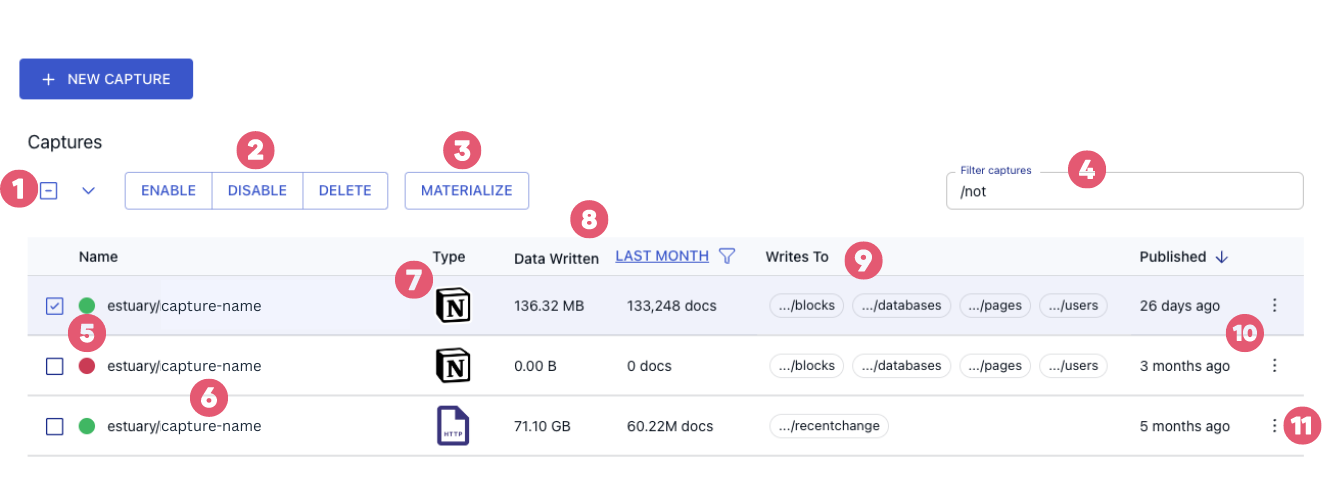
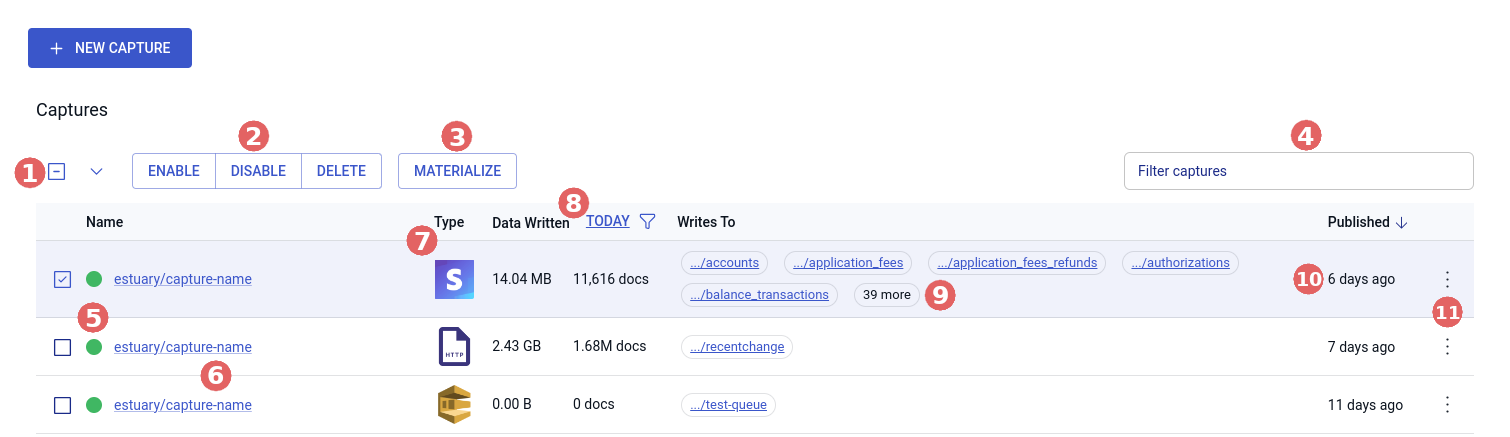
docs: update the web app section to match current UI/UX a bit better (#1165)
* updating the capture related section of the Web App docs

* Updating the images

* Updating collection section
Adding spot for annotated screenshot of details pages

* Moving details into their own section to follow pattern of how the list
pages display

* Adding details page images

* Updating what can be done in the app
Updating the new left nav names

* Updating images and adding collections page details for new table image

* Moving details page images into sub headings

* New Details overview and spec images

* Adding annotations for the details page

* Updating message about filtering the collection
Updating the name portion of details
Adding the stats title
Adding annotations to collection spec

* typo

diff --git a/site/docs/concepts/web-app.md b/site/docs/concepts/web-app.md
@@ -17,18 +17,21 @@ With the Flow web app, you can perform most common workflows, including:
 
 * Creating end-to-end Data Flows: **capturing** data from source systems and **materializing** it to destinations.
 * Creating, viewing, and editing individual captures and materializations.
+* Monitor the amount of data being processed by the system.
 * Viewing data **collections**.
 * Viewing users and permissions.
+* Granting permissions to other users.
 * Authenticating with the flowctl CLI.
+* Manage billing details.
 
-Some advanced workflows, like granting or revoking permissions and transforming data with **derivations**, aren't available in the web app.
+Some advanced workflows, like transforming data with **derivations**, aren't fully available in the web app.
 
 Even if you prefer the command line or plan to perform a task that's only available through flowctl, we recommend you begin your work in the web app;
 it provides a quicker and easier path to create captures and materializations. You can then switch to flowctl to continue working.
 
 ## Signing in
 
-You use either a Google or GitHub account to sign into Flow.
+You use a Google, Microsoft, or GitHub account to sign into Flow.
 
 ![](<./webapp-images/login-screen.png>)
 
@@ -38,7 +41,7 @@ If you've never used Flow before, you'll be prompted to register before being is
 ## Navigating the web app
 
 When you log into the web app, you land on the **Welcome** page.
-There are four additional pages visible as tabs in the side navigation: **Captures**, **Collections**, **Materializations**, and **Admin**.
+There are four additional pages visible as tabs in the side navigation: **Sources (captures)**, **Collections**, **Destinations (materializations)**, and **Admin**.
 
 The order of the tabs mirrors the order of a basic Data Flow:
 
@@ -84,7 +87,7 @@ you can find it by filtering for `acmeCo*source-postgres`.
 * **Disabled (Hollow circle)**: The capture is disabled.
 * **Unknown (Black when app is in light mode; white when app is in dark mode)**: The web app is unable to determine shard status. Usually, this is due to a temporary connection error.
 
-**6:** Capture name. The full name is shown, including all [prefixes](./catalogs.md#namespace).
+**6:** Capture name. The full name is shown, including all [prefixes](./catalogs.md#namespace). It is also a link to the [details page](#capture-details-page) of the capture.
 
 **7:** Capture type. The icon shows the type of source system data is captured from.
 
@@ -93,24 +96,11 @@ that the capture has written to its associated collections within a configurable
 Click the time interval in the header to select from **Today**, **Yesterday**, **This Week**, **Last Week**, **This Month**, or **Last Month**.
 Note that the time intervals are in UTC.
 
-**9:** Associated collections. The **Writes to** column shows all the collections to which the capture writes data. For captures with a large number of collections, hover over this column and scroll to view the full list.
+**9:** Associated collections. The **Writes to** column shows all the collections to which the capture writes data. For captures with a large number of collections, there is a chip stating how many collections are hidden. Clicking on this will all you to hover over this column and scroll to view the full list. These are also links to the details page of the collection.
 
-**10:** Publish time. Hover over this value to see the exact UTC time the capture was first published.
+**10:** Publish time. Hover over this value to see the exact UTC time the capture was last published.
 
-**11:** Options. Choose to **View Details** or **Edit Specification**.
-
-### Detail view
-
-When you click **View Details** for a capture, the **Status** and **Specification** viewers are revealed.
-
-The **Status** section shows the full identifier of the shard(s) that back your capture. If there's an error, you'll see an alert identifying the failing shard(s). Use the drop-down to open an expanded view of the failed shard's logs.
-
-In the **Specification** section, you can view the specification of the capture itself, as well as each collection to which it writes.
-Select a specification from the **Files** list to view the JSON.
-
-:::tip
-To change the size of each side of the **Specification** section, click and drag the center divider.
-:::
+**11:** Options. Click to open the menu to **Edit Specification**.
 
 ### Editing captures and collections
 
@@ -136,15 +126,21 @@ You can proceed to the materialization, or opt to exit to a different page of th
 ## Collections page
 
 The **Collections** page shows a read-only table of [collections](./collections.md) to which you have access.
-The table has many of the same features as the **Captures** table, with several important distinctions
+The table has nearly all of the same features as the **Captures** table, with several important distinctions
 that are called out in the image below.
 
 You can use the table to view each collection's specification and see a sample of its data.
-This can help you verify that collection data was captured as expected and that you'll be able to materialize it how you want, and troubleshoot it necessary.
+This can help you verify that collection data was captured as expected and that you'll be able to materialize it how you want, and troubleshoot if necessary.
 
 ![](<./webapp-images/collections-page.png>)
 
-**1:** Status indicator. If the collection does not contain a [derivation](./README.md#derivations), the indicator should always show green, and hover text will say "Collection."
+**1:** Select all or deselect all.
+
+**2:** Enable, Disable, and Delete buttons. These actions will be applied to the selected table rows. Choose **Disable** to temporarily pause the flow of data, **Enable** to resume, and **Delete** to permanently remove the collection(s).
+
+**3:** Filter collections by name. Type a catalog prefix, unique collection name to return collections that match your query.
+
+**4:** Status indicator. If the collection does not contain a [derivation](./README.md#derivations), the indicator should always show green, and hover text will say "Collection."
 In the event that the server cannot be reached, the indicator will show "Unknown" status (black in light mode and white in dark mode).
 
   If the collection contains a derivation, the status of the derivation's primary task [shard](./advanced/shards.md) will be indicated:
@@ -155,18 +151,14 @@ In the event that the server cannot be reached, the indicator will show "Unknown
   * **Disabled (Hollow circle)**: The derivation is disabled.
   * **Unknown (Black when app is in light mode; white when app is in dark mode)**: The web app is unable to determine shard status. Usually, this is due to a temporary connection error.
 
-**2:** Collection [statistics](./advanced/logs-stats.md#statistics). The **Data Written** column shows the total amount of data, in bytes and in [documents](./collections.md#documents),
+**5:** Collection name. The full name is shown, including all [prefixes](./catalogs.md#namespace). It is also a link to the [details page](#collection-details-page) of the collection.
+
+**6:** Collection [statistics](./advanced/logs-stats.md#statistics). The **Data Written** column shows the total amount of data, in bytes and in [documents](./collections.md#documents),
 that has been written to each collection from its associated capture or derivation within a configurable time interval.
 Click the time interval in the header to select from **Today**, **Yesterday**, **This Week**, **Last Week**, **This Month**, or **Last Month**.
 Note that the time intervals are in UTC.
 
-**3:** To reveal the **Specification** and **Data Preview** sections, expand **Details** next to a collection name.
-
-**4:** The **Specification** section shows the collection specification as JSON in a read-only editor.
-(If you need to modify a collection, edit the [capture](#editing-captures) that it came from.)
-
-**5:** The **Data Preview** section shows a sample of collection [documents](./collections.md#documents): the individual JSON files that comprise the collection.
-Documents are organized by their collection key value. Click a key from the list to view its document.
+**7:** Publish time. Hover over this value to see the exact UTC time the collection was last published.
 
 ## Materializations page
 
@@ -183,12 +175,10 @@ You use the table to monitor your materializations. It's nearly identical to the
 
 **3:** Filter materializations by name. Type a catalog prefix, unique materialization name, or connector name to return materializations that match your query.
 
-Materialization names follow the pattern `prefix/unique-identifier`, with `prefix` supporting multiple layers of nesting.
+Materialization names follow the pattern `prefix/unique-identifier/connector-name`, with `prefix` supporting multiple layers of nesting.
 You can search for any part of this full materialization name. You can also use the `*` wildcard.
-For example, if you have a materialization called `acmeCo/logistics/anvil-locations`,
-you can find it by filtering for `acmeCo*locations`.
-
-Unlike capture names, materialization names don't contain the connector name, but you can still filter them by connector.
+For example, if you have a materialization called `acmeCo/anvil-locations/materialize-mysql`,
+you can find it by filtering for `acmeCo*mysql`.
 
 **4:** Status indicator. Shows the status of the primary task [shard](./advanced/shards.md) that backs this materialization.
 
@@ -198,7 +188,7 @@ Unlike capture names, materialization names don't contain the connector name, bu
 * **Disabled (Hollow circle)**: The materialization is disabled.
 * **Unknown (Black when app is in light mode; white when app is in dark mode)**: The web app is unable to determine shard status. Usually, this is due to a temporary connection error.
 
-**5:** Materialization name. The full name is shown, including all [prefixes](./catalogs.md#namespace).
+**5:** Materialization name. The full name is shown, including all [prefixes](./catalogs.md#namespace). It is also a link to the [details page](#materialization-details-page) of the materialization.
 
 **6:** Materialization type. The icon shows the type of destination system data is materialized to.
 
@@ -207,21 +197,11 @@ that the materialization has read from its associated collections within a confi
 Click the time interval in the header to select from **Today**, **Yesterday**, **This Week**, **Last Week**, **This Month**, or **Last Month**.
 Note that the time intervals are in UTC.
 
-**8:** Associated collections. The **Reads from** column shows all the collections from which the materialization reads data. For materializations with a large number of collections, hover over this column and scroll to view the full list.
+**8:** Associated collections. The **Reads from** column shows all the collections from which the materialization reads data. For materializations with a large number of collections, there is a chip stating how many collections are hidden. Clicking on this will all you to hover over this column and scroll to view the full list. These are also links to the details page of the collection.
 
-**9:** Publish time. Hover over this value to see the exact UTC time the materialization was first published.
+**9:** Publish time. Hover over this value to see the exact UTC time the materialization was last published.
 
-**10:** Options. Choose to **View Details** or **Edit Specification**.
-
-### Detail view
-
-When you click **View Details** for a materialization, the **Status** and **Specification** viewers are revealed.
-
-The **Status** section shows the full identifier of the shard(s) that backs your materialization.
-If there's an error, you'll see an alert identifying the failing shard(s). Use the drop-down to open an expanded view of the failed shard's logs.
-
-In the **Specification** window, you can view the specification of the materialization itself, as well as each collection from which it reads.
-Select a specification from the **Files** list to view the JSON.
+**10:** Options. Click to open the menu to **Edit Specification**.
 
 ### Editing materializations
 
@@ -242,18 +222,103 @@ There are three ways to begin creating a materialization:
 When you initiate the workflow in any of these ways, all available materialization connectors are displayed.
 Select a connector to reveal the full form with configuration options specific to your desired destination.
 
-Fill out the **Endpoint Config** form and use the **Collection Selector** to map Flow collections to
-resources in the destination system.
-
-:::tip
-You can filter to quickly find the collections you want to include in your materialization.
-Hover your cursor within the Collection Selector table header, next to the **Remove All** button, to reveal an expandable menu icon (three dots).
-Click the menu icon, and then choose **Filter**.
-:::
+Fill out the **Endpoint Config** form and in the **Source Collections** section use the **Collection Selector** to map Flow collections to resources in the destination system.
 
 Note that if you entered the workflow from the Captures page or after publishing a capture, collections will be pre-populated for you.
 
 For detailed steps to create a materialization, see the [guide](../guides/create-dataflow.md#create-a-materialization).
+
+## Capture Details page
+
+When you click on the **name** of a capture on the [captures page](#captures-page) you will be taken to the capture details page to view data stats, sharding information, and general details.
+
+
+### Overview Tab
+
+![](<./webapp-images/capture-details-page--overview.png>)
+
+**1:** The full name of the capture.
+
+**2:** Capture [statistics](./advanced/logs-stats.md#statistics). The **Usage** section displays the total amount of data, in bytes and in [documents](./collections.md#documents) written by the capture, per hour. The number of hours being displayed in the chart can be changed by clicking the time interval in the header to select from **6 hours**, **12 hours**, **24 hours**.
+
+**3:** The **Details** section shows different pieces of information about the capture. When it was last updated, when it was created, the connector being used, and the collections to which the capture writes data. 
+
+**4:** Detailed tooltip. You can hover over a section in the graph to see the specific data of that hour.
+
+**5:** The most recent hour. This will automatically update every 15 seconds with the most recent data and docs.
+
+**6:** Associated collections. Shows all the collections to which the capture writes data and when clicked will take you to the collection's [detail page](#collection-details-page)
+
+**7:** The **Shard Information** section shows the full identifier of the shard(s) that back your capture. If there's an error, you'll see an alert identifying the failing shard(s). Use the drop-down to open an expanded view of the failed shard's logs.
+
+### Spec Tab
+![](<./webapp-images/capture-details-page--spec.png>)
+
+In the **Spec** tab, you can view the specification of the capture itself.
+
+## Collection Details page
+
+When you click on the **name** of a collection on the [collections page](#collections-page) you will be taken to the collection details page to view data stats, sharding information, preview of data, and general details.
+
+### Overview Tab
+
+![](<./webapp-images/collection-details-page--overview.png>)
+
+**1:** The full name of the collection.
+
+**2:** Collection [statistics](./advanced/logs-stats.md#statistics). The **Usage** section shows the total amount of data, in bytes and in [documents](./collections.md#documents) passing through a collection, per hour. The number of hours being displayed in the chart can be changed by clicking the time interval in the header to select from **6 hours**, **12 hours**, **24 hours**.
+
+**3:** The **Details** section shows different pieces of information about the collection. When it was last updated, when it was created, and the associated collections (if any).
+
+**4:** Detailed tooltip. You can hover over a section in the graph to see the specific data of that hour.
+
+**5:** The most recent hour. This will automatically update every 15 seconds with the most recent data and docs.
+
+**6:** Associated collections. Shows all the collections to which the capture writes data and when clicked will take you to the collection's [detail page](#collection-details-page)
+
+**7:** The **Shard Information** section (for derivations) shows the full identifier of the shard(s) that back your derivation. If there's an error, you'll see an alert identifying the failing shard(s). Use the drop-down to open an expanded view of the failed shard's logs.
+
+**8:** The **Data Preview** section shows a sample of collection [documents](./collections.md#documents): the individual JSON files that comprise the collection.
+Documents are organized by their collection key value. Click a key from the list to view its document.
+
+### Spec Tab
+![](<./webapp-images/collection-details-page--spec.png>)
+
+**1:** The collection's [key](./collections.md#keys) of the collection.
+
+**2:** The collection's [schema](./schema.md) displayed in a read only table. The table columns can be sorted to more easily find what you need.
+
+:::tip
+If you need to modify a collection, edit the [capture](#editing-captures) that it came from.
+:::
+
+## Materialization Details Page
+
+When you click on the **name** of a materialization on the [materializations page](#materializations-page) you will be taken to the detail page to view data stats, sharding information, and general details.
+
+
+### Overview Tab
+
+![](<./webapp-images/materialization-details-page--overview.png>)
+
+**1:** The full name of the materialization.
+
+**2:** Materialization [statistics](./advanced/logs-stats.md#statistics). The **Usage** section shows the total amount of data, in bytes and in [documents](./collections.md#documents) read by a materialization, per hour. The number of hours being displayed in the chart can be changed by clicking the time interval in the header to select from **6 hours**, **12 hours**, **24 hours**.
+
+**3:** The **Details** section shows different pieces of information about the materialization. When it was last updated, when it was created, and the associated collections.
+
+**4:** Detailed tooltip. You can hover over a section in the graph to see the specific data of that hour.
+
+**5:** The most recent hour. This will automatically update every 15 seconds with the most recent data and docs.
+
+**6:** Associated collections. Shows all the collections to which the capture writes data and when clicked will take you to the collection's [detail page](#collection-details-page)
+
+**7:** The **Shard Information** section shows the full identifier of the shard(s) that back your materialization. If there's an error, you'll see an alert identifying the failing shard(s). Use the drop-down to open an expanded view of the failed shard's logs.
+
+### Spec Tab
+![](<./webapp-images/materialization-details-page--spec.png>)
+
+In the **Spec** tab, you can view the specification of the materialization itself.
 
 ## Admin page
 
